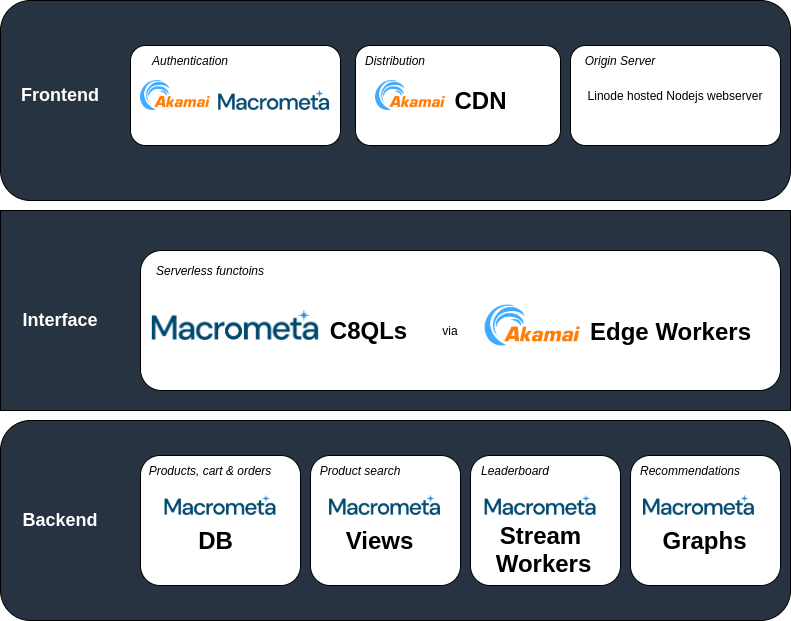
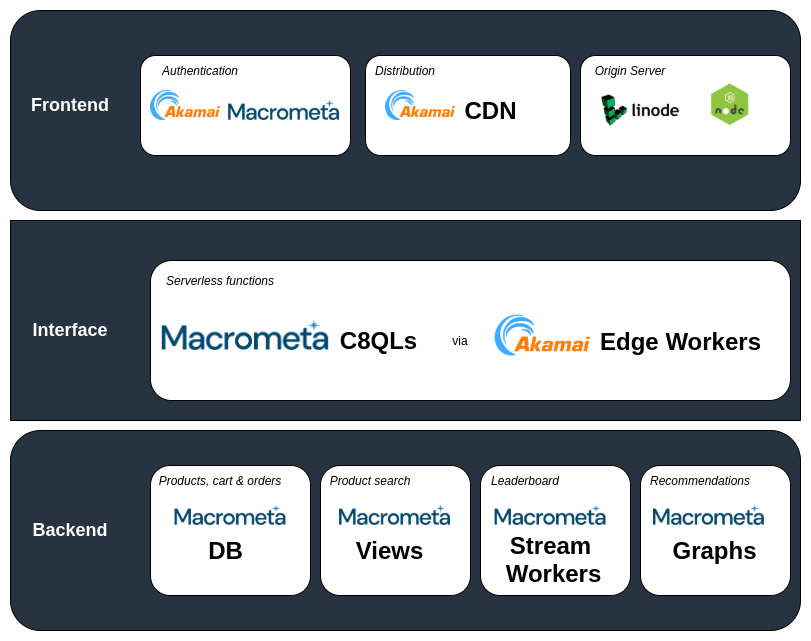
updated summary image and fixed typo

Changed region(s): [[0.0, 0.0, 1.0, 1.0], [0.5461, 0.5201, 0.5765, 0.5507]]

diff --git a/README.md b/README.md
@@ -417,7 +417,7 @@ A simple hello world example can be found [here](https://learn.akamai.com/en-us/
 
 ## Working on the edgeworker locally
 
-To develop the edgeworker code locally you will need `akamai sndbox` on your development machine. For that you will need to have `Akamai CLI` and `Akamai Edgeworker CLI` installed first. More info can be found [here](https://developer.akamai.com/cli).
+To develop the edgeworker code locally you will need `akamai sandbox` on your development machine. For that you will need to have `Akamai CLI` and `Akamai Edgeworker CLI` installed first. More info can be found [here](https://developer.akamai.com/cli).
 
 ## Working with the UI
 
